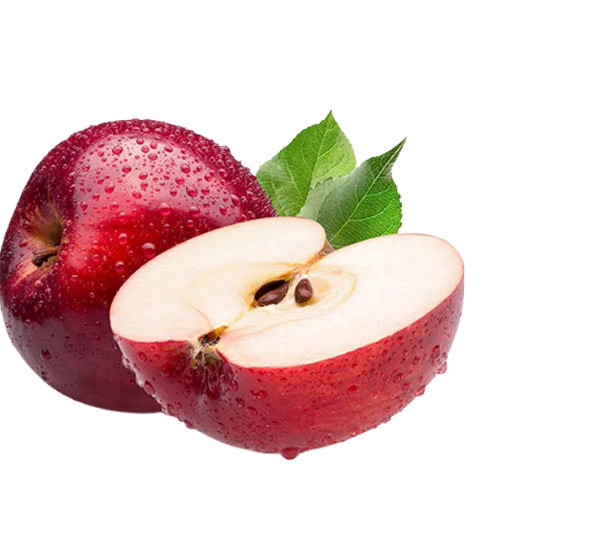
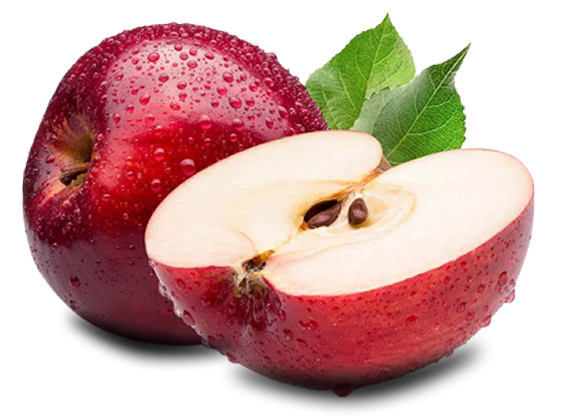
addded map and marker

diff --git a/src/pages/ContactUs.jsx b/src/pages/ContactUs.jsx
@@ -2,12 +2,57 @@ import { contactfruits, contactpageimg, reminder } from "@/assets";
 import Button from "@/components/DynamicComponents/Button";
 import Container from "@/components/DynamicComponents/Container";
 import Title from "@/components/DynamicComponents/Title";
-
+import "leaflet/dist/leaflet.css";
 import { aboutbg } from "@/assets";
 import DynamicBanner from "@/components/DynamicComponents/DynamicBanner";
 import Contact from "@/components/HomePageComponents/Contact";
 import { Link } from "react-router";
+import { useEffect } from "react";
+import markerIcon from "leaflet/dist/images/marker-icon.png";
+import markerShadow from "leaflet/dist/images/marker-shadow.png";
+import { useState } from "react";
 const ContactUs = () => {
+  const [mapLoaded, setMapLoaded] = useState(false);
+  useEffect(() => {
+    if (typeof window !== "undefined" && !mapLoaded) {
+      import("leaflet").then((L) => {
+        if (!document.getElementById("map")) return;
+
+        const calgaryOffice = [51.0447, -113.9317];
+
+        const map = L.map("map").setView(calgaryOffice, 15);
+
+        L.tileLayer("https://{s}.tile.openstreetmap.org/{z}/{x}/{y}.png", {
+          maxZoom: 19,
+          attribution: "© OpenStreetMap contributors",
+        }).addTo(map);
+
+        // Set default Google Maps-like marker
+        const defaultMarker = L.icon({
+          iconUrl: markerIcon,
+          shadowUrl: markerShadow,
+          iconSize: [25, 41],
+          iconAnchor: [12, 41],
+          popupAnchor: [1, -34],
+          shadowSize: [41, 41],
+        });
+
+        L.marker(calgaryOffice, { icon: defaultMarker })
+          .addTo(map)
+          .bindPopup(
+            "<b>The Fruit Box Ltd.</b><br>#115, 11929 – 40th Street S.E.<br>Calgary, Alberta T2Z 4M8"
+          )
+          .openPopup();
+
+        setTimeout(() => {
+          map.invalidateSize();
+        }, 500);
+
+        setMapLoaded(true);
+      });
+    }
+  }, [mapLoaded]);
+
   return (
     <div>
       <div>
@@ -70,16 +115,11 @@ const ContactUs = () => {
                     <span>T2Z 4M8 </span>
                   </div>
                 </div>
-                <div>
-                  <iframe
-                    src="https://www.google.com/maps/embed/v1/place?key=YOUR_GOOGLE_MAPS_API_KEY&q=36.125164460763045,-115.33980715380218"
-                    width="600"
-                    height="450"
-                    // style="border-radius: 30px;"
-                    allowfullscreen=""
-                    loading="lazy"
-                    referrerPolicy="no-referrer-when-downgrade"
-                  ></iframe>
+                <div className="w-[560px]">
+                  <div
+                    id="map"
+                    className="rounded-lg border border-gray-200 shadow-lg z-30"
+                  ></div>
                 </div>
               </div>
             </div>

diff --git a/src/components/HomePageComponents/FruitBoxSection.jsx b/src/components/HomePageComponents/FruitBoxSection.jsx
@@ -1,7 +1,4 @@
-import {
-  apple, 
-  fruitboxbg,  
-} from "@/assets";
+import { apple, fruitboxbg } from "@/assets";
 import Title from "../DynamicComponents/Title";
 import FruitBoxCard from "../DynamicComponents/FruitBoxCard";
 import { useGetApi } from "@/hooks/API/useGetApi";
@@ -10,7 +7,6 @@ import IsError from "../ui/Shared/IsError";
 
 const FruitBoxSection = () => {
   const { data: fruitsData, isLoading, isError } = useGetApi("products", true);
- 
 
   return isLoading ? (
     <div className="flex items-center justify-center h-80">
@@ -20,11 +16,11 @@ const FruitBoxSection = () => {
   ) : isError ? (
     <IsError />
   ) : (
-    <div className="relative z-10 h-[1500px]">
+    <div className="relative z-10 h-[1700px]">
       <img
         src={fruitboxbg}
         alt=""
-        className="absolute -top-60 w-full z-[1px] left-0 h-[1700px]"
+        className="absolute -top-60 w-full z-[1px] left-0 h-full"
       />
       <div className="pt-[40px] md:pt-[135px] pb-9 max-w-[1315px] mx-auto z-20">
         <div className="flex flex-col items-center justify-center">
@@ -52,7 +48,7 @@ const FruitBoxSection = () => {
         </div>
       </div>
       {/* <img src={boxStyle} alt="" className="absolute bottom-3 left-0" /> */}
-      <img src={apple} className=" absolute -bottom-10 left-0" alt="" />
+      <img src={apple} className=" absolute bottom-40 -left-20" alt="" />
     </div>
   );
 };

diff --git a/src/components/HomePageComponents/WhySection.jsx b/src/components/HomePageComponents/WhySection.jsx
@@ -5,8 +5,8 @@ import Title from "../DynamicComponents/Title";
 
 const WhySection = () => {
   return (
-    <Container className="asdf">
-      <div className="mt-40 flex items-center justify-between">
+    <Container>
+      <div className="  flex items-center justify-between">
         <div className="flex flex-col gap-4 max-w-[805px]">
           <Title
             className="text-[56px]"

diff --git a/src/components/HomePageComponents/HowToOrder.jsx b/src/components/HomePageComponents/HowToOrder.jsx
@@ -1,7 +1,6 @@
 import { banana, howOrder, malta } from "@/assets";
 import Button from "../DynamicComponents/Button";
-import { Link } from "react-router";
-import { DatePicker } from "../CartPageComponents/DatePicker";
+import { Link } from "react-router"; 
 import { CustomDate } from "./CustomDate";
 
 const HowToOrder = () => {

diff --git a/src/index.css b/src/index.css
@@ -8,3 +8,11 @@
   color: black;
   background: orange;
 }
+
+#map {
+  height: 352px; 
+  width: 100%; 
+  border: 2px solid white;
+  border-radius: 20px;
+  overflow: hidden;
+}
